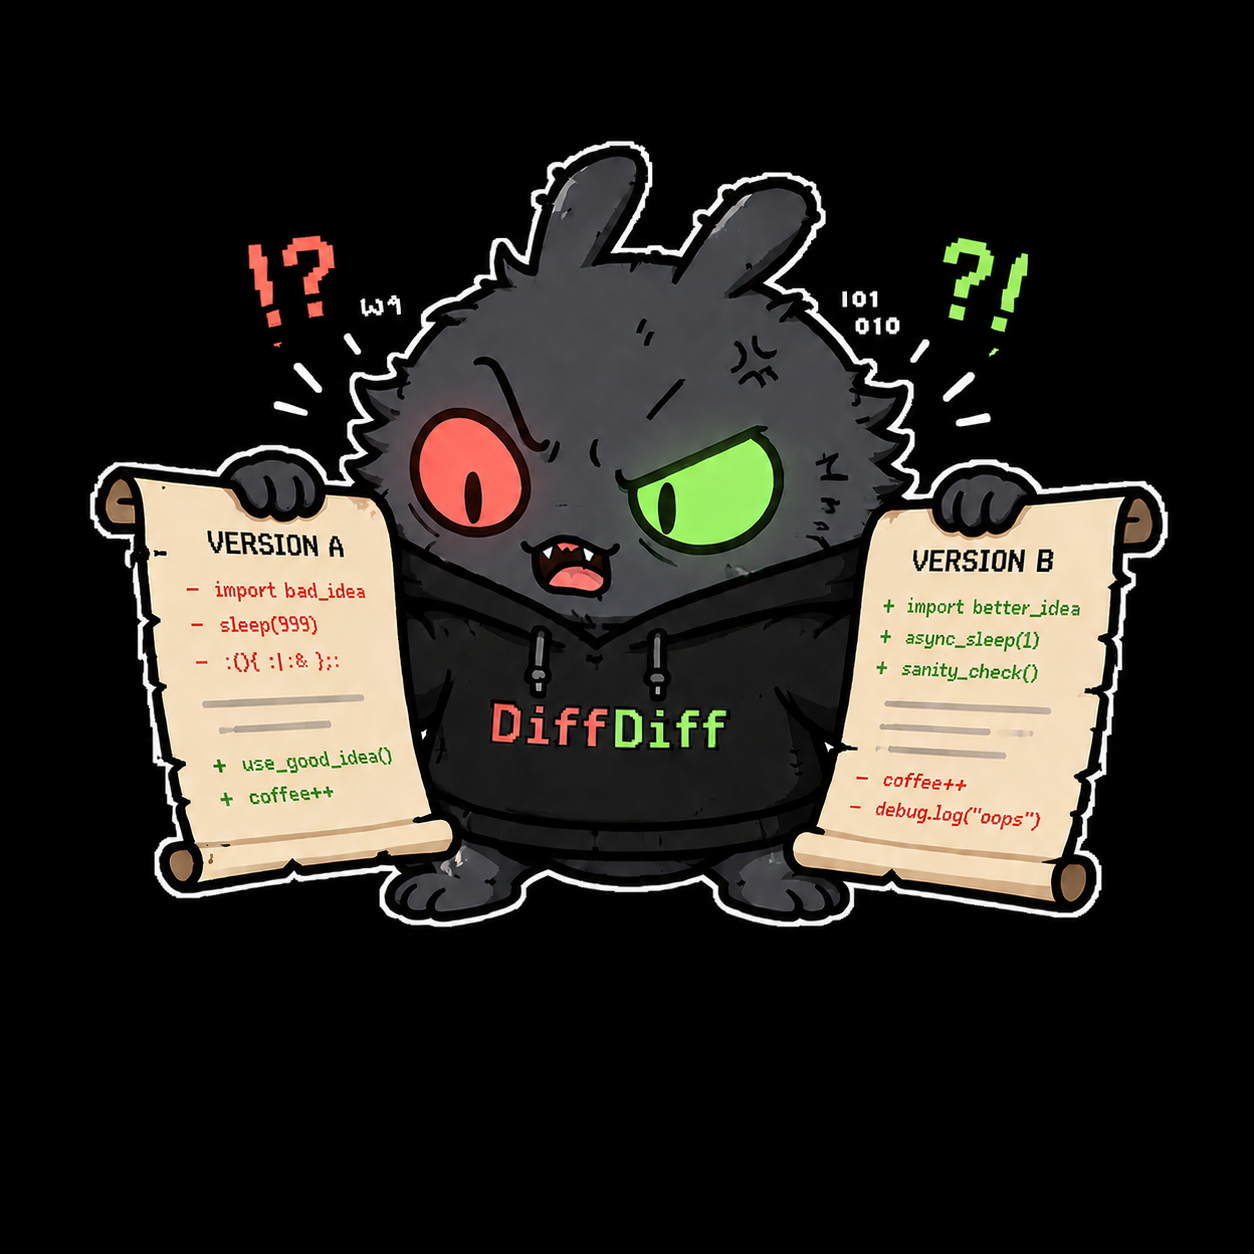
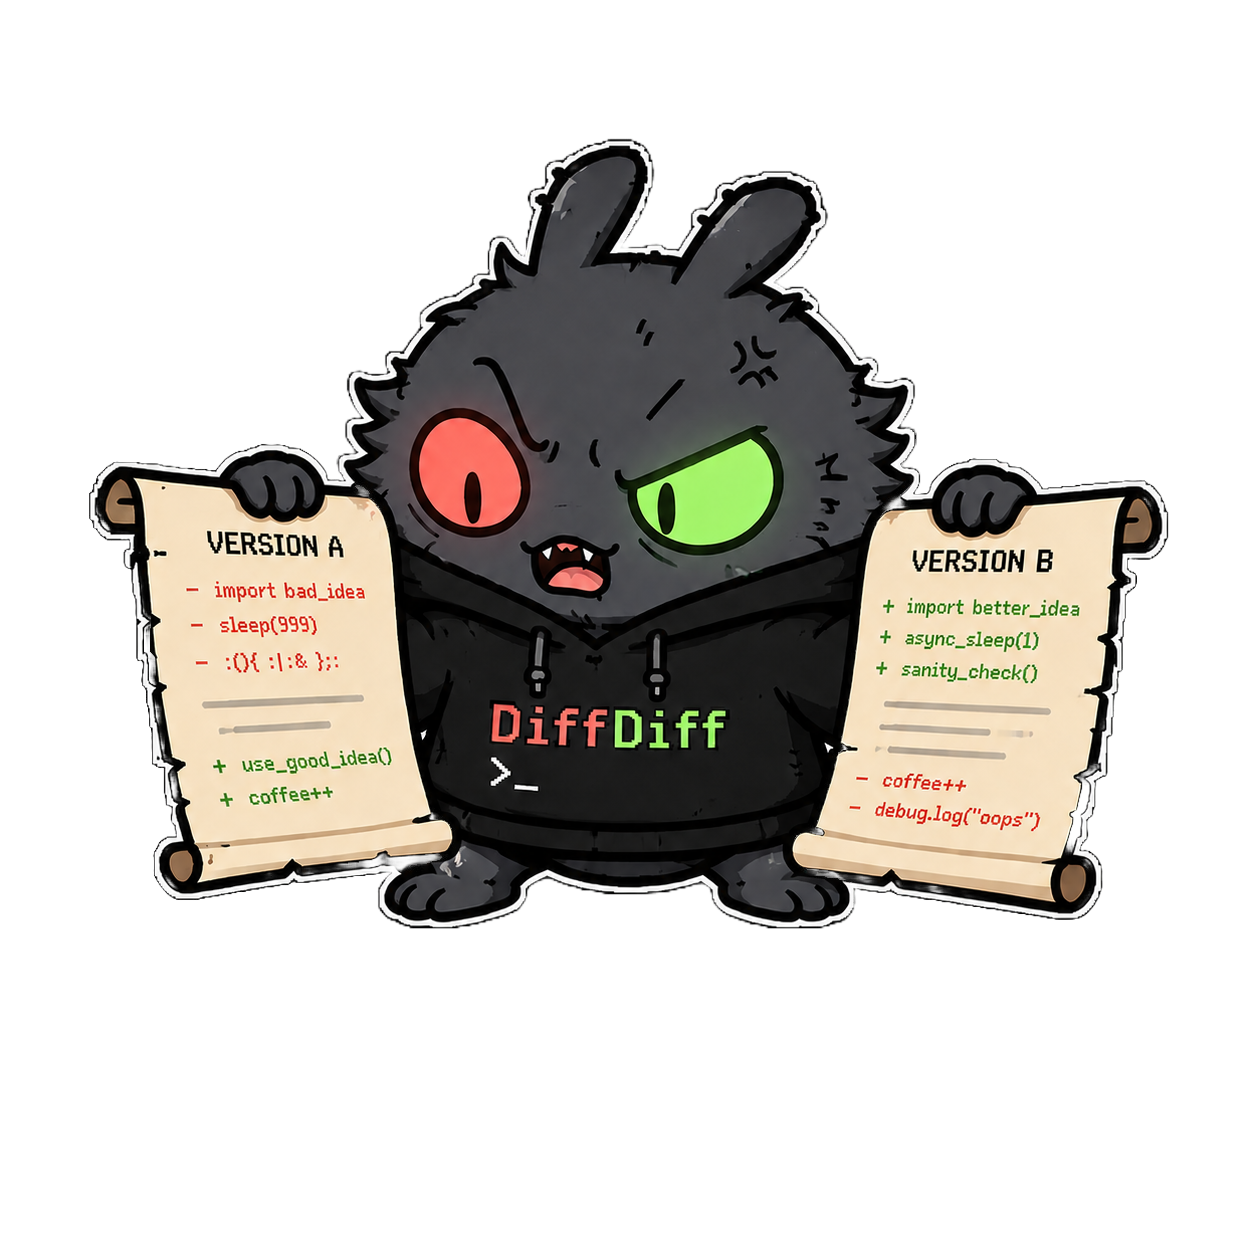
chore: fix readme

diff --git a/README.md b/README.md
@@ -1,4 +1,6 @@
-![diffdiff](assets/imgs/readmebanner.png)
+<p align="center">
+  ![diffdiff](assets/imgs/mascot.png)
+</p>
 
 <p align="center">
   <a href="https://go.dev/"><img src="https://img.shields.io/badge/Go-%3E%3D1.26-00ADD8?style=flat&labelColor=24292e&logo=go&logoColor=white" alt="Go"></a>